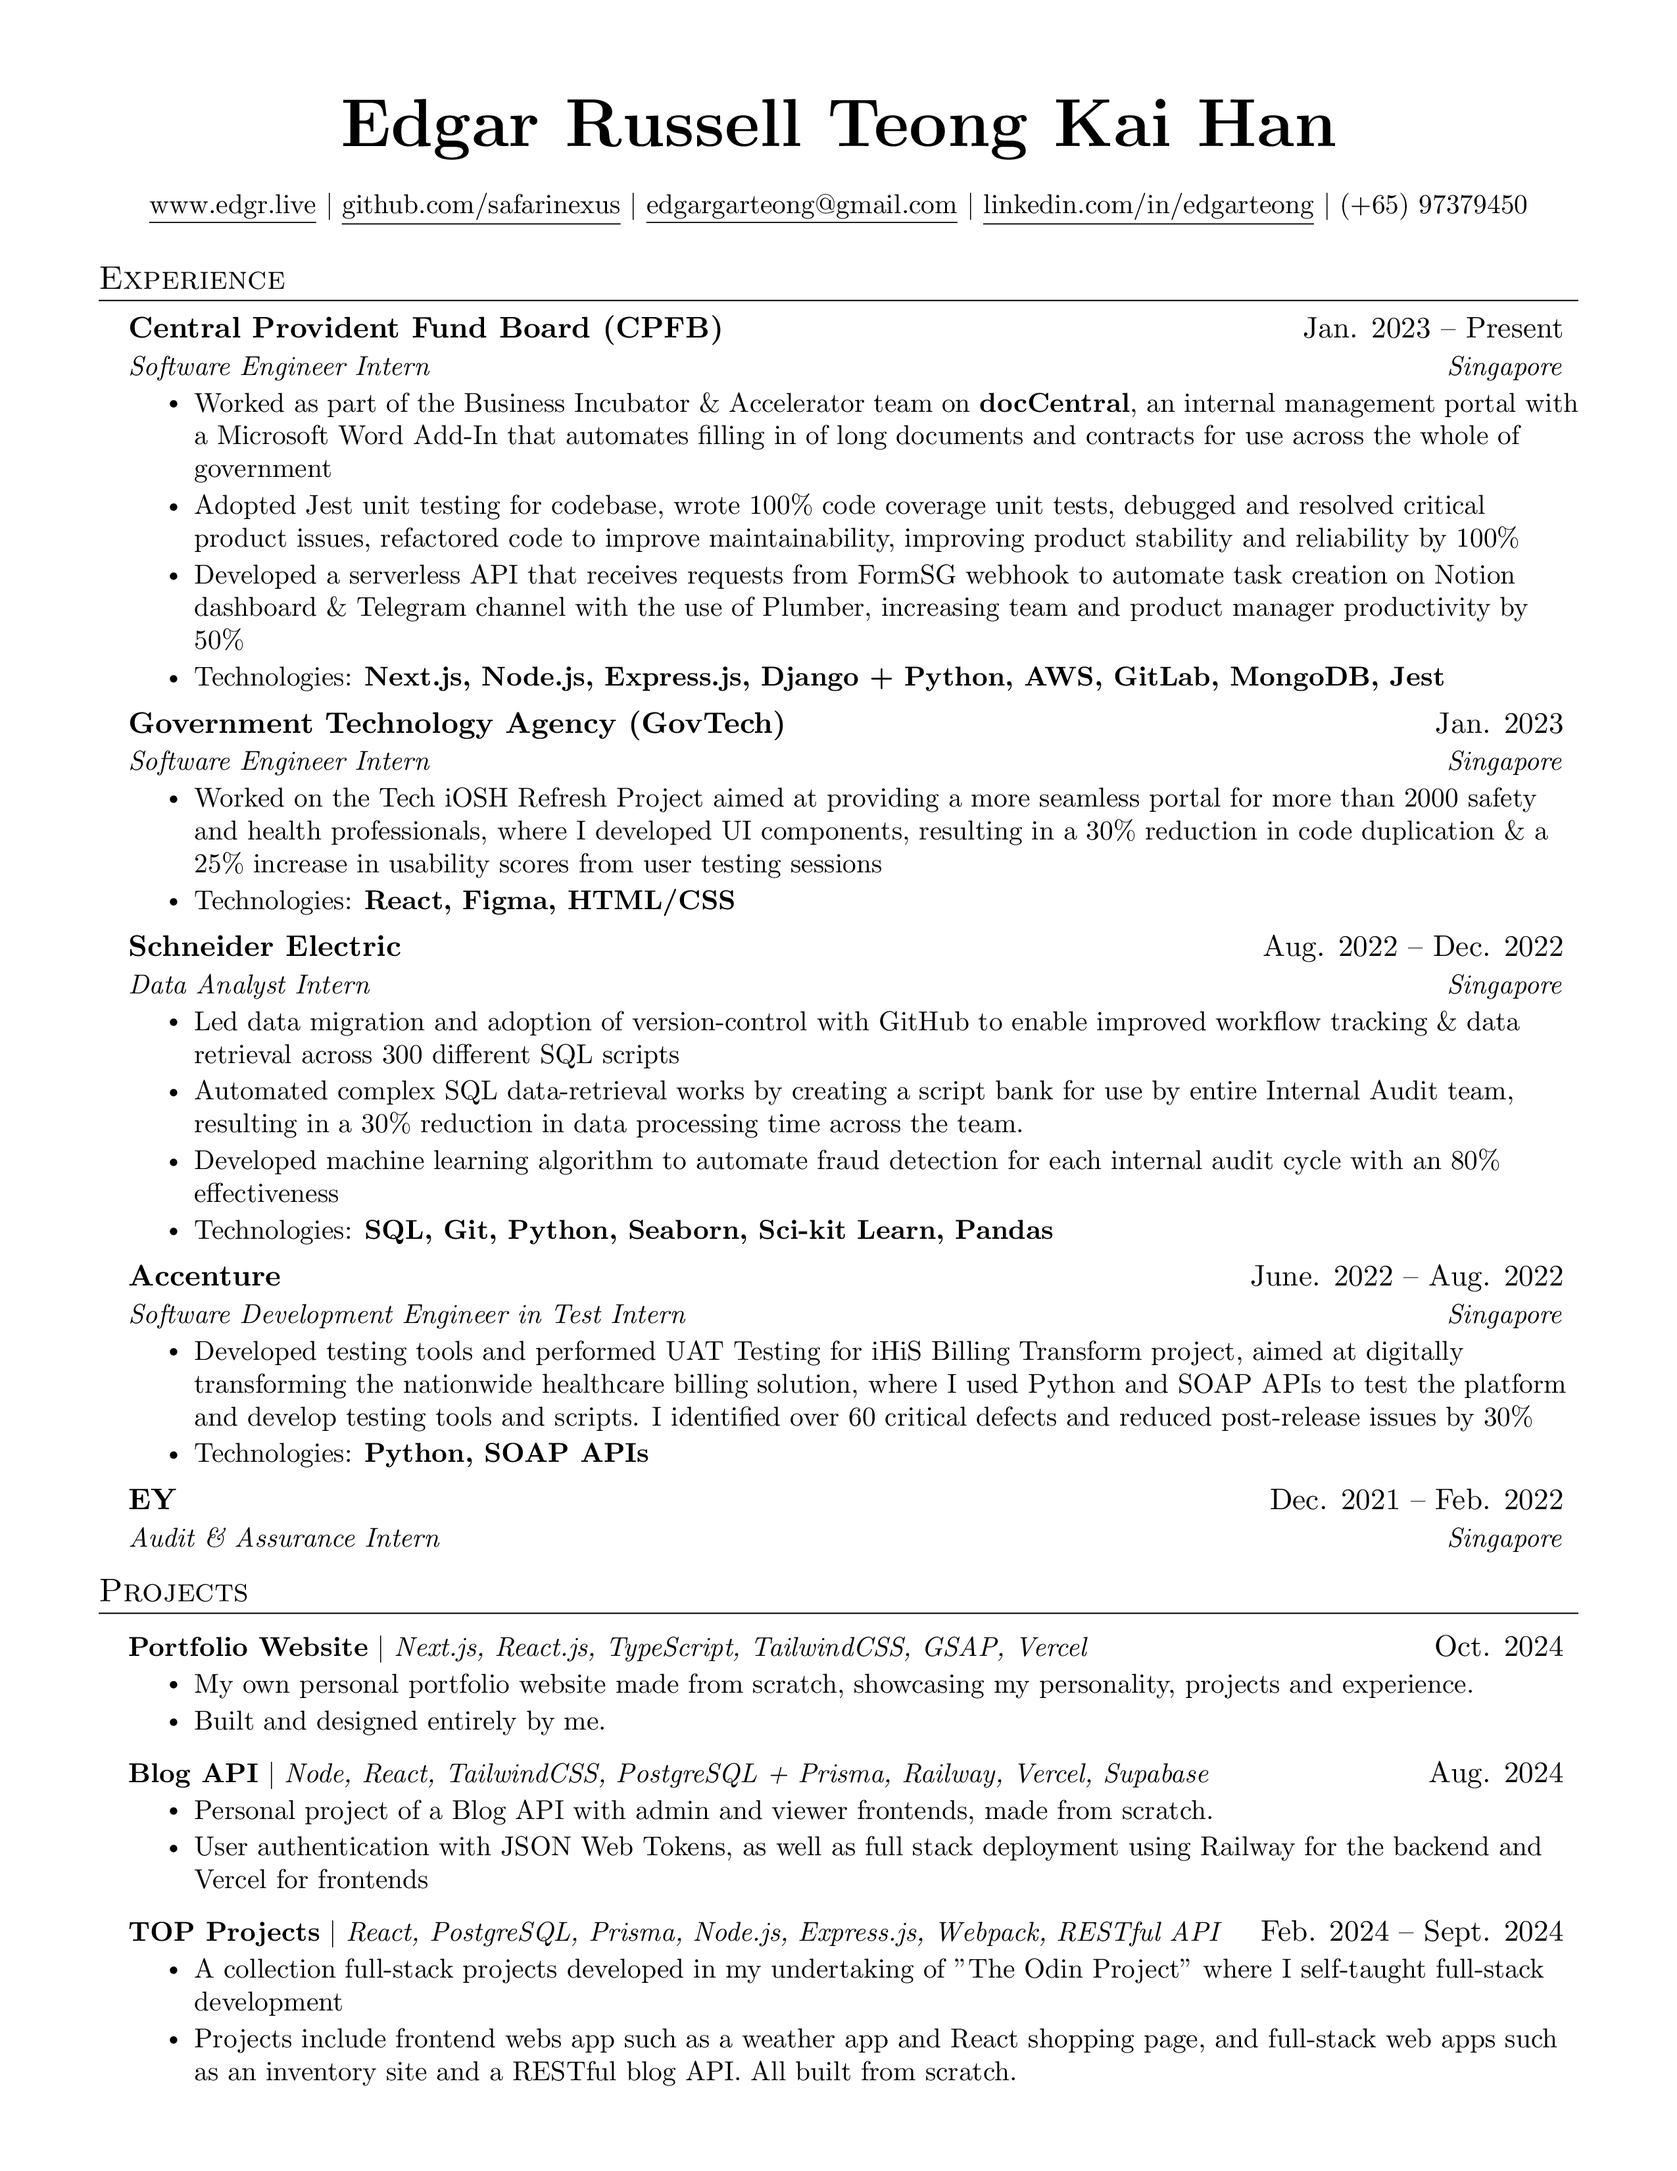
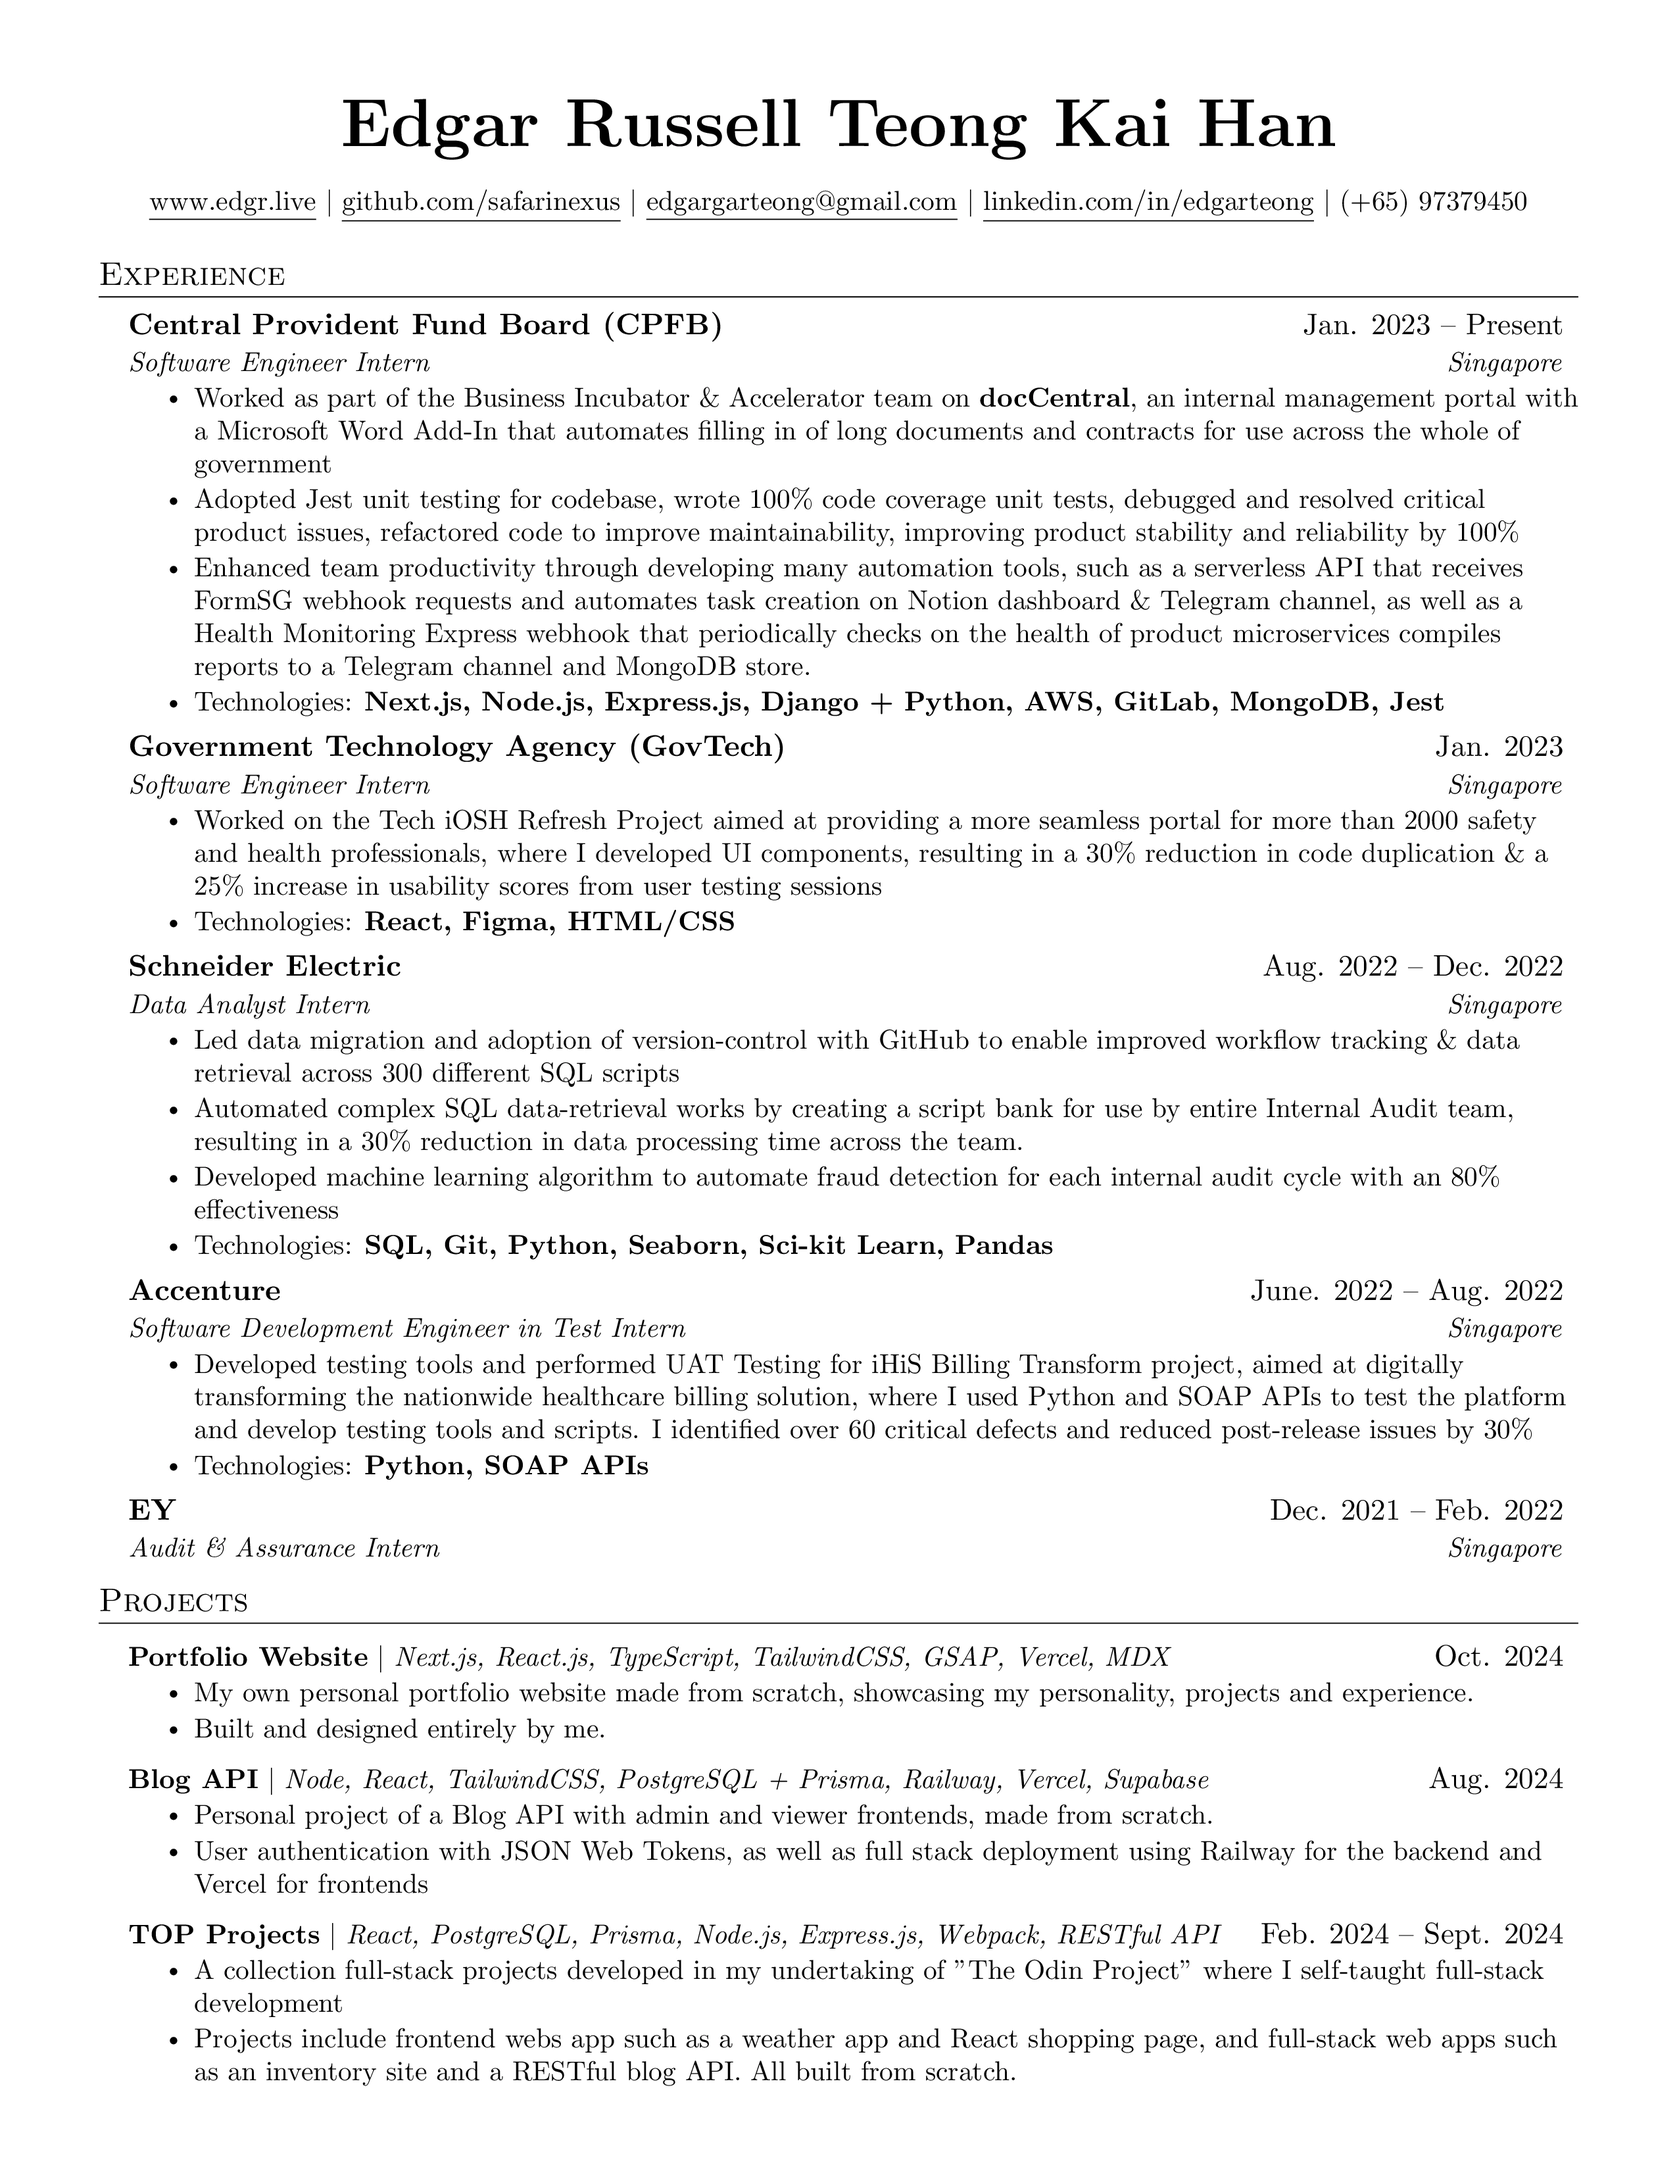
updated resume

diff --git a/edgr_resume.tex b/edgr_resume.tex
@@ -151,7 +151,7 @@
     \resumeItemListStart
       \resumeItem{Worked as part of the Business Incubator \& Accelerator team on \textbf{docCentral}, an internal management portal with a Microsoft Word Add-In that automates filling in of long documents and contracts for use across the whole of government}
       \resumeItem{Adopted Jest unit testing for codebase, wrote 100\% code coverage unit tests, debugged and resolved critical product issues, refactored code to improve maintainability, improving product stability and reliability by 100\%}
-      \resumeItem{Developed a serverless API that receives requests from FormSG webhook to automate task creation on Notion dashboard \& Telegram channel with the use of Plumber, increasing team and product manager productivity by 50\%}
+      \resumeItem{Enhanced team productivity through developing many automation tools, such as a serverless API that receives FormSG webhook requests and automates task creation on Notion dashboard \& Telegram channel, as well as a Health Monitoring Express webhook that periodically checks on the health of product microservices compiles reports to a Telegram channel and MongoDB store.}
       \resumeItem{Technologies: \textbf{Next.js, Node.js, Express.js, Django + Python, AWS, GitLab, MongoDB, Jest}}
     \resumeItemListEnd
 
